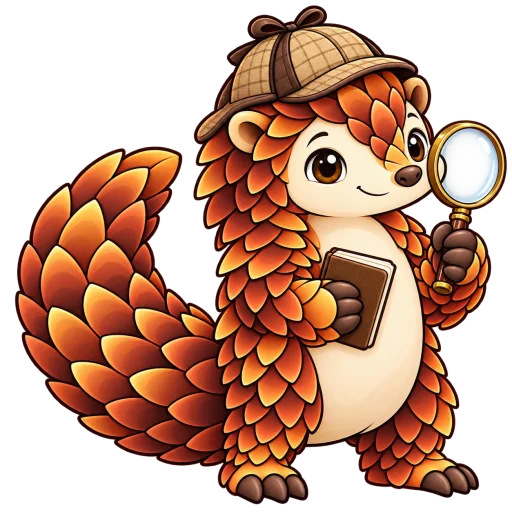
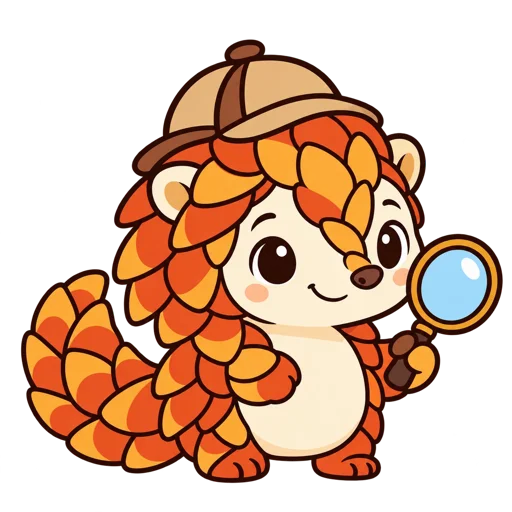
docs: update the pangolin mascot (#23)

diff --git a/README.md b/README.md
@@ -1,5 +1,5 @@
 <p align="center">
-  <img src="docs/assets/mascot.webp" width="220" alt="Tenbri's mascot: a pangolin detective in a deerstalker, holding a magnifying glass and a notebook">
+  <img src="docs/assets/mascot.webp" width="220" alt="Tenbri's mascot: a pangolin detective in a deerstalker, holding a magnifying glass">
 </p>
 
 <h1 align="center">Tenbri</h1>
